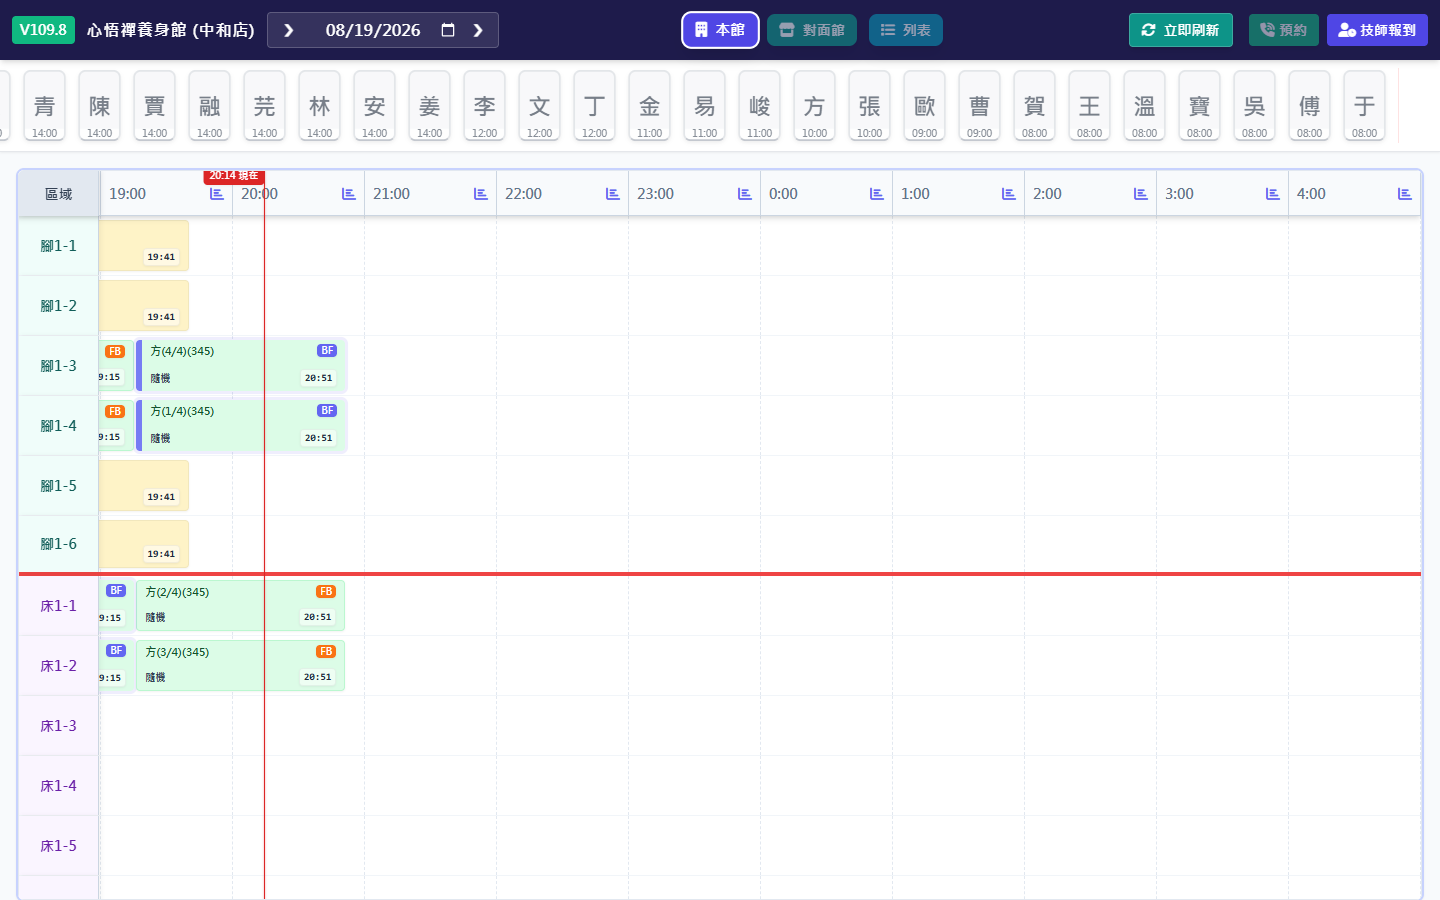
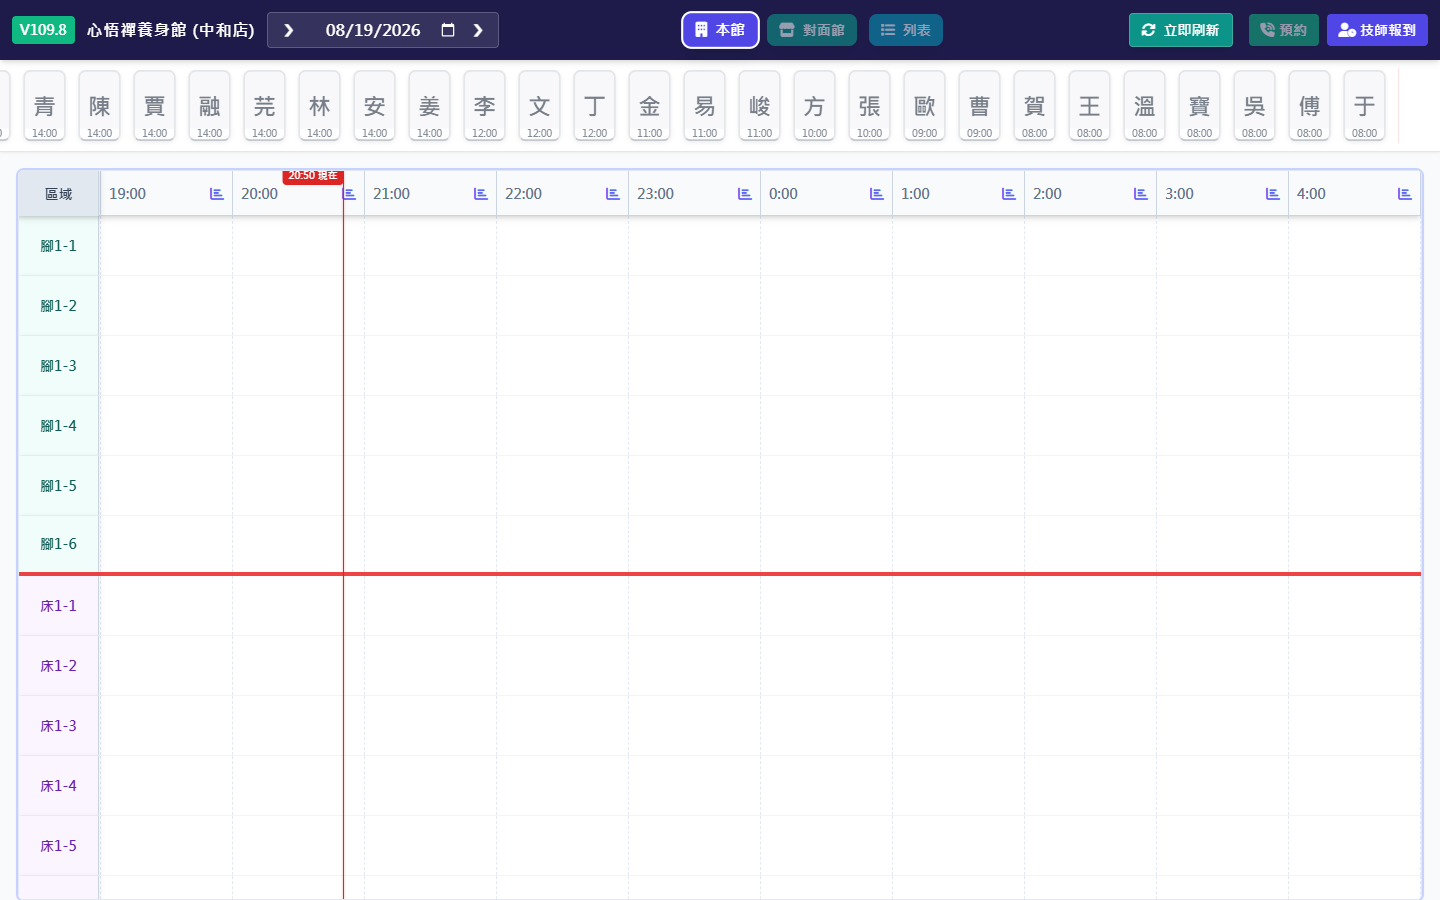
time

Changed region(s): [[0.0625, 0.2178, 0.25, 0.7778], [0.125, 0.1867, 0.25, 0.2178]]

diff --git a/XinWuChanAdmin/js/cyx_bookingHandler.js b/XinWuChanAdmin/js/cyx_bookingHandler.js
@@ -1,4 +1,4 @@
-/**
+/**
  * =================================================================================================
  * PROJECT: XINWUCHAN MASSAGE BOT - FRONTEND CONTROLLER & LOGIC BRIDGE
  * FILE: js/bookingHandler.js
@@ -469,16 +469,14 @@
                 return bEnd > requestStart;
             });
 
-            const resolveRealLocation = (loc) => {
-                if (!loc) return '本館';
-                if (loc === '本館' || loc === '對面館') return loc;
-                const match = String(loc).match(/(?:BED|CHAIR|床|足|腳)[-_ ]?([12])[-_ ]?\d+/i);
+            const resolveRealLocation = (b) => {
+                let locStr = b.current_resource_id || b.phase1_res_idx || b.originalData?.location || b.location || '本館';
+                const match = String(locStr).match(/(?:BED|CHAIR|床|足|腳|OPP)[-_ ]?([12])[-_ ]?\\d+/i);
                 if (match) return match[1] === '2' ? '對面館' : '本館';
-                return '本館';
+                return (b.originalData?.location || b.location || '本館') === '對面館' ? '對面館' : '本館';
             };
             const relevantBookings = globalStaffBookings.filter(b => {
-                const bLoc = b.originalData?.location || b.location || '本館';
-                return resolveRealLocation(bLoc) === locationStr;
+                return resolveRealLocation(b) === locationStr;
             });
 
             relevantBookings.forEach(b => {

diff --git a/cyx_sheet_service.js b/cyx_sheet_service.js
@@ -2151,6 +2151,7 @@ async function updateBookingGroupAtomic(groupUpdates) {
             }
 
             if (updatedData.duration !== undefined) row[45] = updatedData.duration;
+            if (updatedData.location !== undefined) row[39] = updatedData.location;
 
             dataToUpdate.push({
                 range: `${BOOKING_SHEET_NAME}!A${rowId}:AX${rowId}`,
